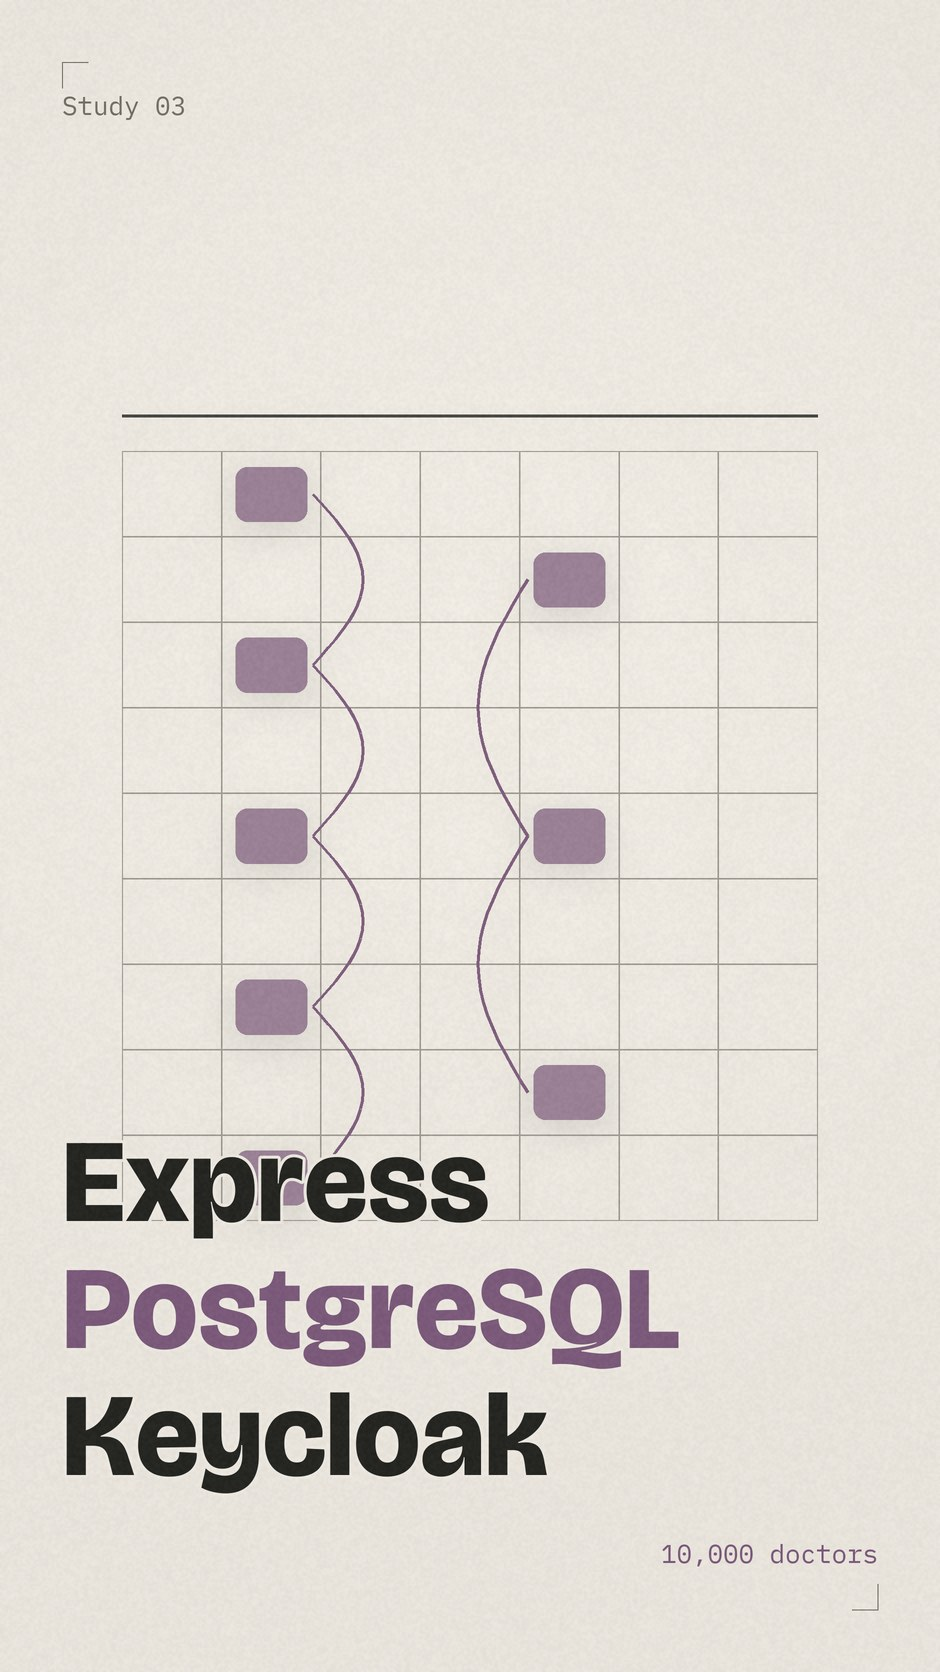
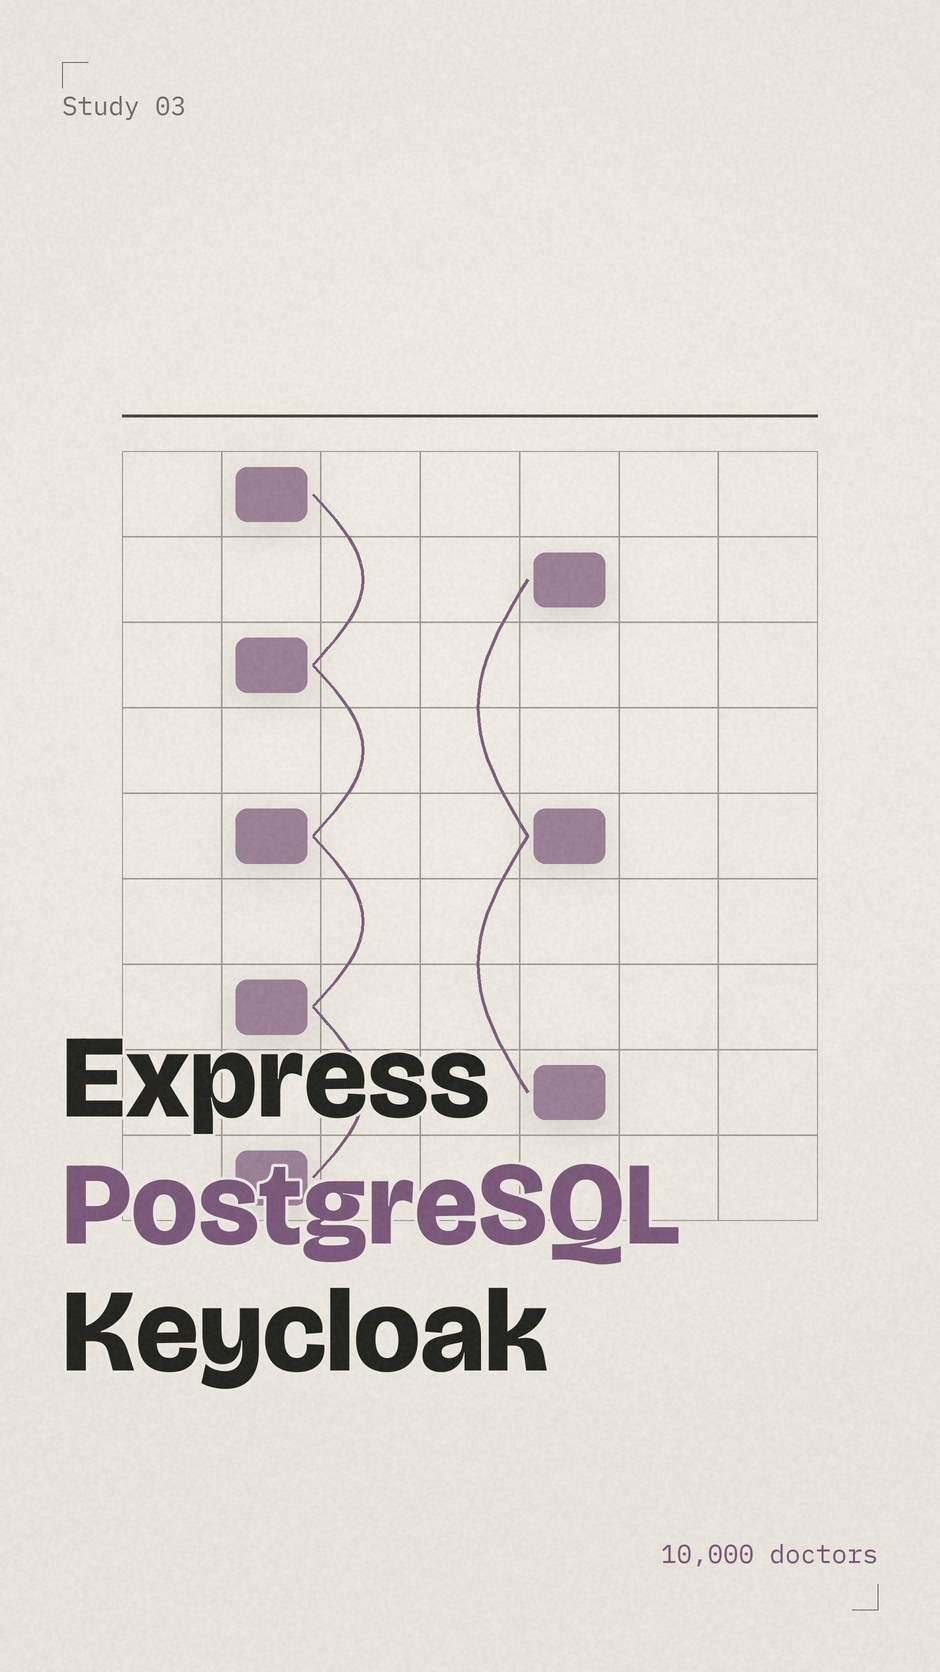
fix: card text clipping and employer name removal
Front-art service names now finish by 0.83h, inside the band the 3D card
face crops. Study-back fragments flow below the description instead of a
fixed y, and the long copy is trimmed to each layout's budget. Biography
card bodies shortened to stop overlapping the signature. HabileLabs
removed from UI copy. Adds card-back render harness.

Changed region(s): [[0.0617, 0.622, 0.7404, 0.9019]]

diff --git a/assets/js/study-notes.js b/assets/js/study-notes.js
@@ -1,14 +1,14 @@
     /* Shared editorial source for the sixteen detail panels and eight printed backs.
- * Notes describe systems I built at HabileLabs and the tools behind them. */
+ * Notes describe systems I built in production and the tools behind them. */
 window.STUDY_NOTES=[
  {accent:'#a95b37',layout:'sequence',label:'Enterprise video platform',titleLines:['A Thousand','Streams'],description:'A camera is easy. A thousand cameras across two hundred remote sites, running for months, is a different problem. Habile iYE — an enterprise Video Management System built from scratch — covers camera and device management with ONVIF discovery, live monitoring, recording and playback, retention policies, timeline search, clip download and evidence export, health monitoring from camera to CPU, and alerts over email, SMS and WhatsApp. Deployed for ONGC across 55 locations with automatic failover, a State Government IT Centre with 350+ cameras, and a leading NBFC with 1,000+ cameras at 200+ remote sites.',fragments:['Build / Camera to control room, end to end','Deploy / ONGC, State Govt IT Centre, leading NBFC','Scale / 1,000+ cameras, 200+ sites, 3 clients'],detail:'Node.js and TypeScript orchestrating FFmpeg and MediaMTX, with PostgreSQL, Redis and BullMQ underneath.'},
- {accent:'#49626b',layout:'atlas',label:'Real-time AI analytics',titleLines:['What The','Camera Saw'],description:'The AI Vision Dashboard puts inference on top of live video: theft detection, idle detection, PPE compliance, age and gender estimation. A detector writing thousands of events per minute will happily take a database down with it, so Redis and BullMQ sit in between — events land in a queue, workers batch them into PostgreSQL, and the analytics queries never wait behind the writes. MediaMTX and WebRTC carry the live view, and a React dashboard turns the event stream into per-use-case charts and statistics operators act on during the shift, not after it.',fragments:['Detect / Theft, idle, PPE, demographics','Absorb / Redis and BullMQ in front of PostgreSQL','Serve / WebRTC live view, React analytics'],detail:'Decoupling inference load from query load is the whole design.'},
+ {accent:'#49626b',layout:'atlas',label:'Real-time AI analytics',titleLines:['What The','Camera Saw'],description:'The AI Vision Dashboard puts inference on top of live video: theft, idle time, PPE compliance, age and gender estimation. Redis and BullMQ absorb the detection firehose before PostgreSQL, while WebRTC carries the live view and a React dashboard turns events into charts operators act on during the shift.',fragments:['Detect / Theft, idle, PPE, demographics','Absorb / Redis and BullMQ in front of PostgreSQL','Serve / WebRTC live view, React analytics'],detail:'Decoupling inference load from query load is the whole design.'},
  {accent:'#345ca0',layout:'spectrum',label:'Healthcare platform',titleLines:['Ten Thousand','Doctors'],description:'Meet My Doctor is a production healthcare platform for appointment scheduling, doctor verification, organization administration and business operations — 10,000 doctors across 1,000+ specialties. Recurrence is where scheduling gets interesting: daily, weekly and custom patterns generate the slots that every downstream feature depends on. Express and Sequelize over PostgreSQL behind REST APIs; Keycloak for role-based access; S3 for secure document storage and export; CI/CD for zero-downtime deploys.',fragments:['Scale / 10,000 doctors, 1,000+ specialties','Engine / Daily, weekly and custom recurrence','Stack / Express, PostgreSQL, Keycloak, AWS S3'],detail:'The awkward recurrences are the ones worth testing first.'},
- {accent:'#92703d',layout:'specimen',label:'Full-stack product',titleLines:['A Library,','Lent Out'],description:'A digital library and book circulation platform, owned end to end: books, authors, members, borrowing and return workflows, due dates, overdue identification and inventory consistency. MongoDB Atlas holds the data, modelled with Mongoose schemas, references, validation and indexing; Express serves the REST APIs; React carries search, filtering and circulation with centralized error handling and request validation.',fragments:['Model / Mongoose schemas and indexes','Rules / Availability, due dates, overdues','Ship / Express APIs, React interface'],detail:'Business rules live in one place, so the inventory never lies.'},
- {accent:'#985642',layout:'threshold',label:'Performance engineering',titleLines:['Faster, On','Purpose'],description:'Three systems, three measured wins. API response times down 25% by reshaping the read path with PostgreSQL and Redis. Query execution down 30% on an orders module through complex queries, functions and stored procedures in MySQL. Stream latency down 40% by reading the FFmpeg flags and TCP/UDP transport settings line by line until long-running connections stopped timing out.',fragments:['APIs / Response times down 25%','Queries / Execution time down 30%','Transport / Stream latency down 40%'],detail:'Profile first. Guessing costs more time than measuring.'},
- {accent:'#646856',layout:'weave',label:'Security & access',titleLines:['Who Gets','In'],description:'Enterprise security is the part nobody sees until it fails. Keycloak single sign-on, role-based access control with granular permissions, two-factor authentication, session management, IP-based access restrictions, user activity logs and audit trails — enforced across the video platform, the healthcare system and every admin panel in between. Three kinds of operator, one honest permission model.',fragments:['Identity / Keycloak, SSO, 2FA','Control / RBAC with granular permissions','Record / Activity logs and audit trails'],detail:'A permission system is a promise about what cannot happen.'},
- {accent:'#7b587a',layout:'sequence',label:'Frontend engineering',titleLines:['The Console','They Trust'],description:'A backend is only finished when someone can run it without asking. I build the React interfaces that sit in front of my systems: admin panels for doctors, patients, appointments and organizations; surveillance operations consoles with live video walls; analytics dashboards with charts, statistics and event detail. React, Redux and Next.js over REST APIs documented with Swagger, so the contract is readable by everyone consuming it.',fragments:['Admin / Doctors, patients, organizations','Operations / Surveillance consoles, video walls','Insight / Charts, statistics, event detail'],detail:'Operators change what matters. Build for the person on shift.'},
- {accent:'#c8552b',layout:'letter',label:'Certifications',titleLines:['Certified','On The Cloud'],description:'AWS Certified AI Practitioner, issued 27 September 2026 and valid to 27 September 2029, alongside Oracle Cloud Database Service Professional. Both sit next to day-to-day work on EC2, S3, RDS and IAM, plus Oracle Cloud, Docker and GitLab CI — and a Fast Starter Award from HabileLabs.',fragments:['AWS / Certified AI Practitioner, 2026 — 2029','Oracle / Cloud Database Service Professional','Verify / aws.amazon.com/verification'],detail:'Cloud practice, not only cloud theory: EC2, S3, RDS, IAM in production.'},
+ {accent:'#92703d',layout:'specimen',label:'Full-stack product',titleLines:['A Library,','Lent Out'],description:'A digital library and book circulation platform owned end to end: books, members, borrowing and returns, due dates, overdues and inventory consistency. Mongoose schemas with references, validation and indexes on MongoDB Atlas; Express REST APIs; a responsive React interface for search and circulation.',fragments:['Model / Mongoose schemas and indexes','Rules / Availability, due dates, overdues','Ship / Express APIs, React interface'],detail:'Business rules live in one place, so the inventory never lies.'},
+ {accent:'#985642',layout:'threshold',label:'Performance engineering',titleLines:['Faster, On','Purpose'],description:'Three measured wins: API response times down 25% by reshaping the read path with Redis, query execution down 30% through stored procedures in MySQL, and stream latency down 40% by reading FFmpeg flags and transport settings line by line.',fragments:['APIs / Response times down 25%','Queries / Execution time down 30%','Transport / Stream latency down 40%'],detail:'Profile first. Guessing costs more time than measuring.'},
+ {accent:'#646856',layout:'weave',label:'Security & access',titleLines:['Who Gets','In'],description:'Keycloak single sign-on, role-based access control with granular permissions, two-factor authentication, IP restrictions, activity logs and audit trails — enforced across the video platform, the healthcare system and every admin panel in between.',fragments:['Identity / Keycloak, SSO, 2FA','Control / RBAC with granular permissions','Record / Activity logs and audit trails'],detail:'A permission system is a promise about what cannot happen.'},
+ {accent:'#7b587a',layout:'sequence',label:'Frontend engineering',titleLines:['The Console','They Trust'],description:'A backend is only finished when someone can run it without asking. React interfaces sit in front of every system: admin panels for doctors and organizations, surveillance consoles with live video walls, analytics dashboards with charts and event detail — React, Redux and Next.js over documented REST APIs.',fragments:['Admin / Doctors, patients, organizations','Operations / Surveillance consoles, video walls','Insight / Charts, statistics, event detail'],detail:'Operators change what matters. Build for the person on shift.'},
+ {accent:'#c8552b',layout:'letter',label:'Certifications',titleLines:['Certified','On The Cloud'],description:'AWS Certified AI Practitioner, issued 27 September 2026 and valid to 27 September 2029, alongside Oracle Cloud Database Service Professional — next to day-to-day work on EC2, S3, RDS, IAM, Docker and GitLab CI.',fragments:['AWS / Certified AI Practitioner, 2026 — 2029','Oracle / Cloud Database Service Professional','Verify / aws.amazon.com/verification'],detail:'Cloud practice, not only cloud theory: EC2, S3, RDS, IAM in production.'},
  {accent:'#49626b',layout:'threshold',label:'Low-latency delivery',description:'WebRTC is what makes a live stream feel live. Where HLS trades seconds for reliability, WebRTC negotiates its way to something an operator can react to, and MediaMTX does the translation between what the camera speaks and what the browser wants.',fragments:['The cost / Segments and buffering','The gain / A stream you can act on'],detail:'The last hundred milliseconds are the ones people notice.'},
  {accent:'#a95b37',layout:'spectrum',label:'Document modelling',description:'MongoDB rewards a schema that is designed rather than accumulated, same as any database. Mongoose schemas with references, validation and honest indexes kept books, borrowers and circulation records consistent while the collection grew — and kept the queries fast without a cache in front.',fragments:['Shape / Schemas, references, validation','Speed / Indexes chosen for the real queries'],detail:'Schemaless is a capability, not an excuse.'},
  {accent:'#985642',layout:'fragments',label:'Caching and queues',description:'Redis does two jobs here: it holds the answers that are expensive to recompute, and it backs the BullMQ queues that absorb bursts. Both are the same idea — put something fast in front of something slow, and let the slow thing work at its own pace.',fragments:['Cache: the answer you already have.','Queue: the work you can do later.','Both: memory in front of the database.'],detail:'Most latency problems are really scheduling problems.'},

diff --git a/assets/js/projects.js b/assets/js/projects.js
@@ -2,9 +2,9 @@
 window.ARTIST={name:'Durrez Ahmed',initials:'da',description:'Software Engineer',contactURL:''};
 // The physical card reverses and the accessible reading layout share this copy.
 window.BIOGRAPHY=[
- {layout:'material',label:'My work / Systems in production',title:['Full stack.','In production.'],lead:'I build backends, real-time pipelines and the consoles that run them.',body:'A video platform watching 1,000+ cameras. A healthcare system serving 10,000 doctors. An AI analytics dashboard, a digital library, and the APIs underneath all of them. Different domains, same discipline: design the data, ship the service, keep it up.',specimen:{from:'A requirement on a whiteboard.',to:'A system someone relies on.'},foot:'Three years of production systems in Node.js and TypeScript.'},
- {layout:'manifesto',label:'How I work / Measure, then move',title:['Latency is','a decision.'],lead:'Every slow system is slow for a reason somebody chose.',body:'I profile before I touch anything, then change one thing at a time. API response times down 25%. Query execution down 30%. Stream latency down 40%. None of it was luck; it was reading the flags, the query plans and the transport settings nobody had read.',signature:'Durrez Ahmed',foot:'Profile first. Then change one thing.'},
- {layout:'practice',label:'My range / Backend to browser',title:['One engineer.','Whole stack.'],lead:'APIs and schemas taught me structure. Streaming taught me timing. React let me put the system in front of the people who use it.',body:'I design the data model, write the service, deploy it on AWS and then build the console people actually use to run it — for surveillance operators, hospital admins and librarians alike.',mediums:['Backends','Real-time','Interfaces'],foot:'Jaipur, India. Open to interesting systems.'}
+ {layout:'material',label:'My work / Systems in production',title:['Full stack.','In production.'],lead:'I build backends, real-time pipelines and the consoles that run them.',body:'A video platform watching 1,000+ cameras. A healthcare system serving 10,000 doctors. AI analytics, a digital library, and the APIs underneath. Different domains, one discipline: keep it up.',specimen:{from:'A requirement on a whiteboard.',to:'A system someone relies on.'},foot:'Three years of production systems in Node.js and TypeScript.'},
+ {layout:'manifesto',label:'How I work / Measure, then move',title:['Latency is','a decision.'],lead:'Every slow system is slow for a reason somebody chose.',body:'I profile before I touch anything, then change one thing. APIs 25% faster, queries 30%, streams 40% — measured, never guessed.',signature:'Durrez Ahmed',foot:'Profile first. Then change one thing.'},
+ {layout:'practice',label:'My range / Backend to browser',title:['One engineer.','Whole stack.'],lead:'APIs and schemas taught me structure. Streaming taught me timing. React let me put the system in front of the people who use it.',body:'I design the data model, write the service, deploy it on AWS, then build the console operators actually use.',mediums:['Backends','Real-time','Interfaces'],foot:'Jaipur, India. Open to interesting systems.'}
 ];
 window.PORTFOLIO=[
   {
@@ -98,8 +98,8 @@ window.PORTFOLIO=[
     "discipline": "Scale",
     "year": "System 08",
     "image": "08",
-    "short": "AWS Certified AI Practitioner. Oracle Cloud Database Service Professional.",
-    "description": "AWS Certified AI Practitioner, issued 27 September 2026, valid to 27 September 2029. Oracle Cloud Database Service Professional alongside it, and a Fast Starter Award from HabileLabs.",
+    "short": "AWS and Oracle certified, 2026.",
+    "description": "AWS Certified AI Practitioner, issued 27 September 2026, valid to 27 September 2029. Oracle Cloud Database Service Professional alongside it.",
     "detail": "Verify at aws.amazon.com/verification — validation number b68a5cae73964cc2b71a43698aa9bc3e.",
     "alt": "A hexagonal certification badge over ruled certificate lines."
   }

diff --git a/assets/js/card-backs.js b/assets/js/card-backs.js
@@ -58,9 +58,9 @@ window.paintStudyBack=function(canvas,p,index){
   title(70,176,112);label(p.label,72,440);para(p.short,72,490,810,38,48,accent);
   p.fragments.forEach((_,i)=>{const y=665+i*130;text('0'+(i+1),72,y,23,accent,'IBM Plex Mono');fragment(i,155,y,750);});
   break;
- case 1:
-  title(70,180,158);rule(70,555);para(p.description,70,605,850,33,46);
-  fragment(0,70,910,370);fragment(1,545,910,370);
+ case 1:{
+  title(70,180,158);rule(70,555);const dEnd=para(p.description,70,605,850,33,46);
+  const fy=Math.max(910,dEnd+34);fragment(0,70,fy,370);fragment(1,545,fy,370);}
   for(let j=0;j<11;j++){c.globalAlpha=.1+j*.02;c.fillStyle=accent;c.fillRect(810+j*9,190,2,300);}c.globalAlpha=1;break;
  case 2:
   title(70,174,92);para(p.short,70,420,780,38,50,accent);
@@ -79,11 +79,12 @@ window.paintStudyBack=function(canvas,p,index){
   text((p.titleLines||[p.title])[0],70,190,108,ink,'Bricolage');text((p.titleLines||[p.title])[1]||'',195,315,140,accent,'Bricolage');
   p.fragments.forEach((line,i)=>{text(line,70+i*90,580+i*98,37,i===1?accent:ink);});
   para(p.description,70,950,850,30,43);break;
- case 6:
+ case 6:{
   title(70,184,112);label(p.label,70,465);
   ['#ac6950','#b49a50','#6f947c','#63769d','#8d7894'].forEach((color,i)=>{c.fillStyle=color;c.globalAlpha=.65;c.fillRect(70+i*177,535,168,10);});c.globalAlpha=1;
-  para(p.description,70,610,850,35,48);
-  p.fragments.forEach((line,i)=>{text('0'+(i+1),70+i*296,990,22,accent,'IBM Plex Mono');para(line,70+i*296,1035,250,32,41,ink);});break;
+  const dEnd=para(p.description,70,610,850,35,48);
+  const fy=Math.max(990,dEnd+36);
+  p.fragments.forEach((line,i)=>{text('0'+(i+1),70+i*296,fy,22,accent,'IBM Plex Mono');para(line,70+i*296,fy+45,250,32,41,ink);});}break;
  case 7:
   title(512,184,118,'center');text(p.short,512,470,36,accent,'Geist','center');
   c.fillStyle=accent;c.globalAlpha=.055;c.fillRect(512,565,440,330);c.globalAlpha=1;

diff --git a/test-backs.html b/test-backs.html
@@ -1,0 +1,22 @@
+<!doctype html>
+<!-- Dev-only harness: renders the eight printed card backs with production data
+     and painter, for headless layout verification. -->
+<html lang="en">
+<head><meta charset="utf-8"><title>backs harness</title>
+<link rel="stylesheet" href="assets/css/fonts.css">
+<style>body{margin:0;background:#555;display:grid;grid-template-columns:repeat(4,1fr)}canvas{width:100%;height:auto;display:block}</style>
+</head>
+<body>
+<script src="assets/js/projects.js"></script>
+<script src="assets/js/study-notes.js"></script>
+<script src="assets/js/card-backs.js"></script>
+<script>
+Promise.all([
+ document.fonts.load('400 30px "Geist"'),document.fonts.load('600 30px "Geist"'),
+ document.fonts.load('400 30px "IBM Plex Mono"'),document.fonts.load('500 30px "Bricolage"')
+].map(p=>p.catch(()=>{}))).then(()=>document.fonts.ready).then(()=>{
+ window.PORTFOLIO.forEach((p,i)=>{const c=document.createElement('canvas');document.body.append(c);window.paintStudyBack(c,p,i);});
+});
+</script>
+</body>
+</html>

diff --git a/index.html b/index.html
@@ -180,7 +180,7 @@
         <section id="artist" class="panel artist-panel" aria-labelledby="artist-title" inert="" aria-hidden="true">
           <div id="portal-signature"><span class="micro">Behind the systems</span>
             <h2 id="artist-title" class="portal-name" data-artist-name="">Durrez Ahmed</h2>
-            <span class="micro">Software Engineer · HabileLabs, Jaipur</span>
+            <span class="micro">Software Engineer · Jaipur, India</span>
           </div>
           <div id="portrait-figure">
             <!-- One photographic master, exactly registered through three tonal layers. -->

diff --git a/tools/generate_art.py b/tools/generate_art.py
@@ -149,7 +149,9 @@ def plate(size, seed, accent, motif, caption=None, index=None, ground="paper", s
                 size_px = max(40 * SS, int(size_px * maxw / tw))
                 f = heavy(size_px)
             lines.append((name, f, size_px))
-        y = h - m - 118 * SS - sum(int(sz * 1.08) for _, _, sz in lines)
+        # The 3D card face centre-crops this plate to ~71% of its height, so the
+        # stack must finish by ~0.83h to stay fully visible on the carousel.
+        y = int(h * 0.83) - sum(int(sz * 1.08) for _, _, sz in lines)
         for i, (name, f, sz) in enumerate(lines):
             fill = accent + (244,) if i == 1 else INK + (240,)
             marks.text((m, y), name, font=f, fill=fill,
